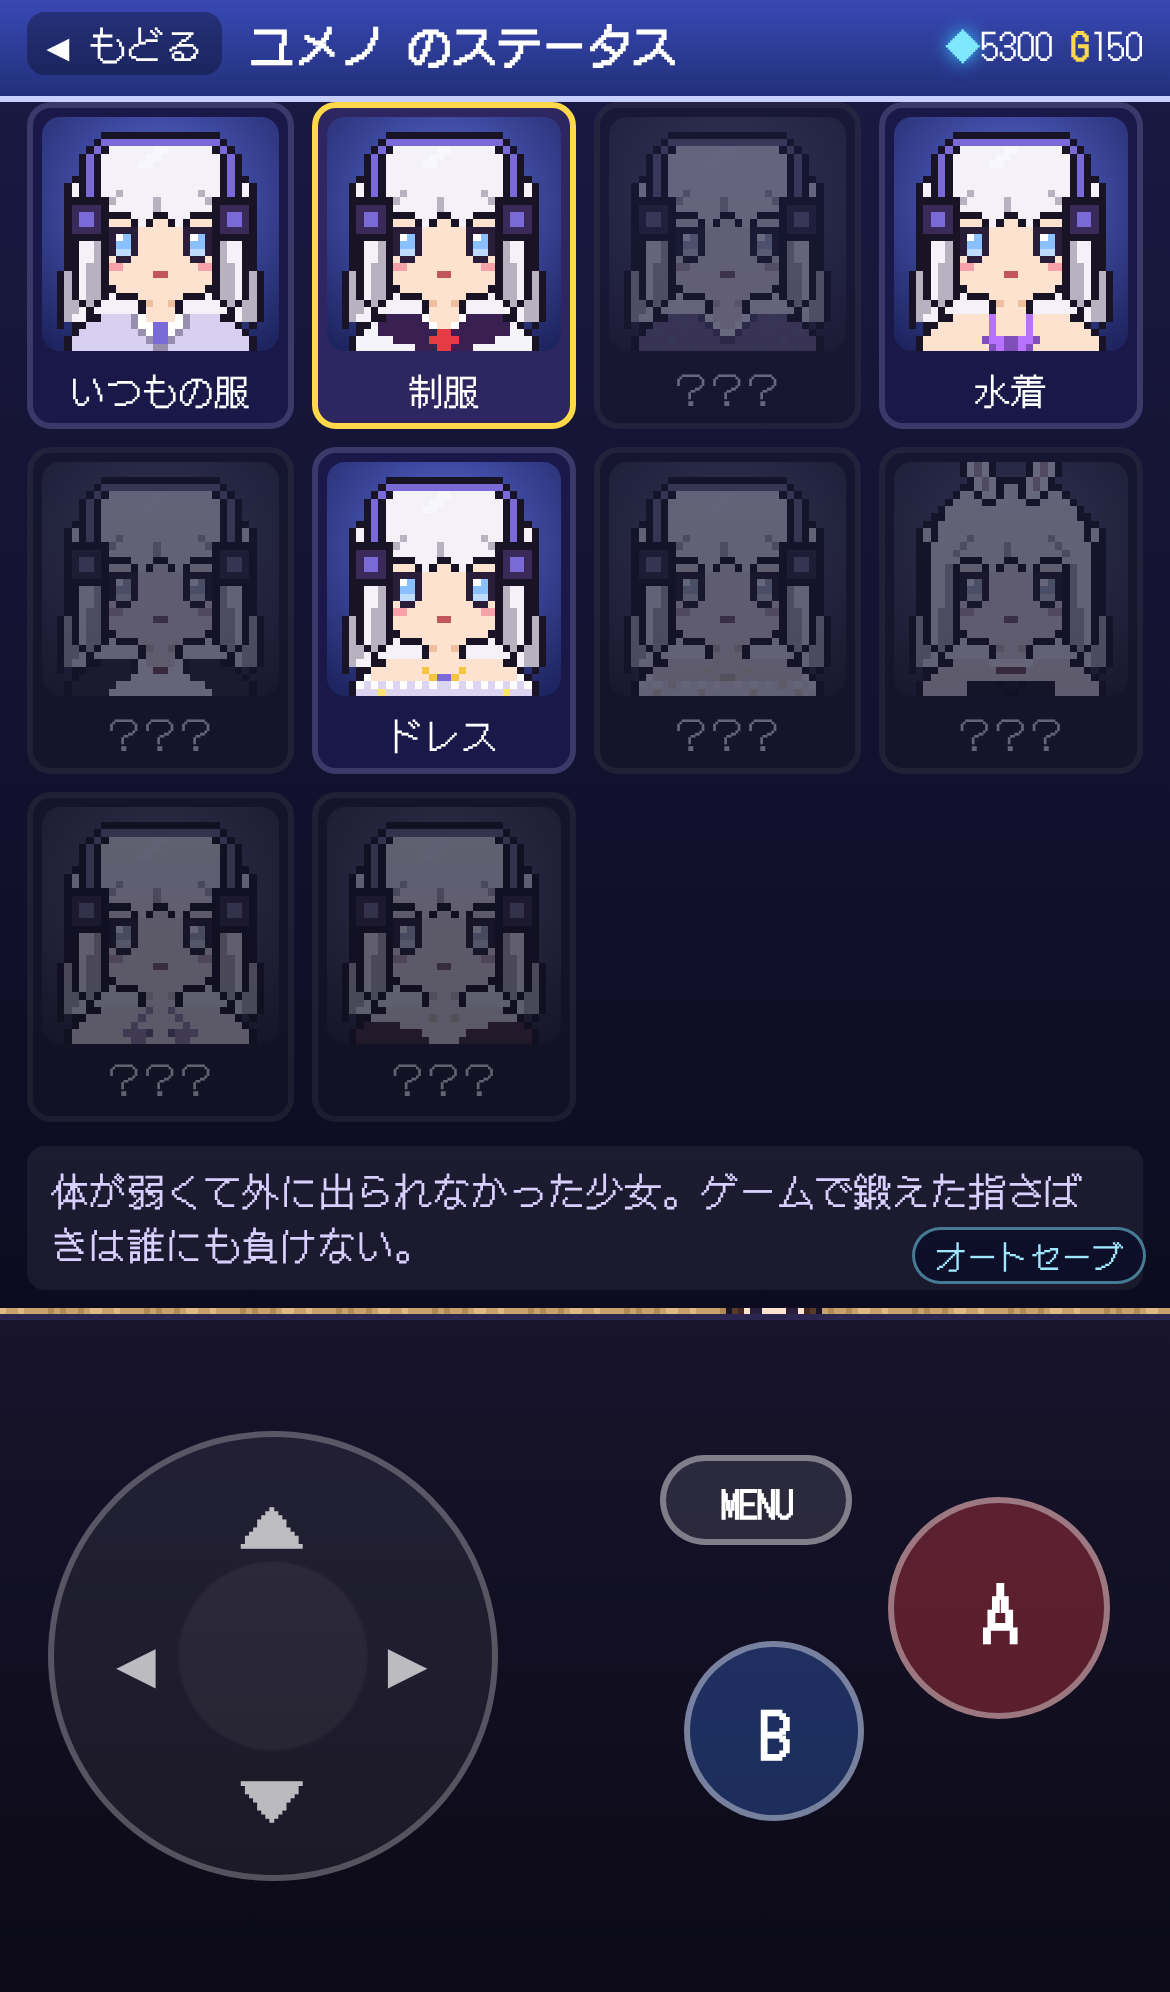
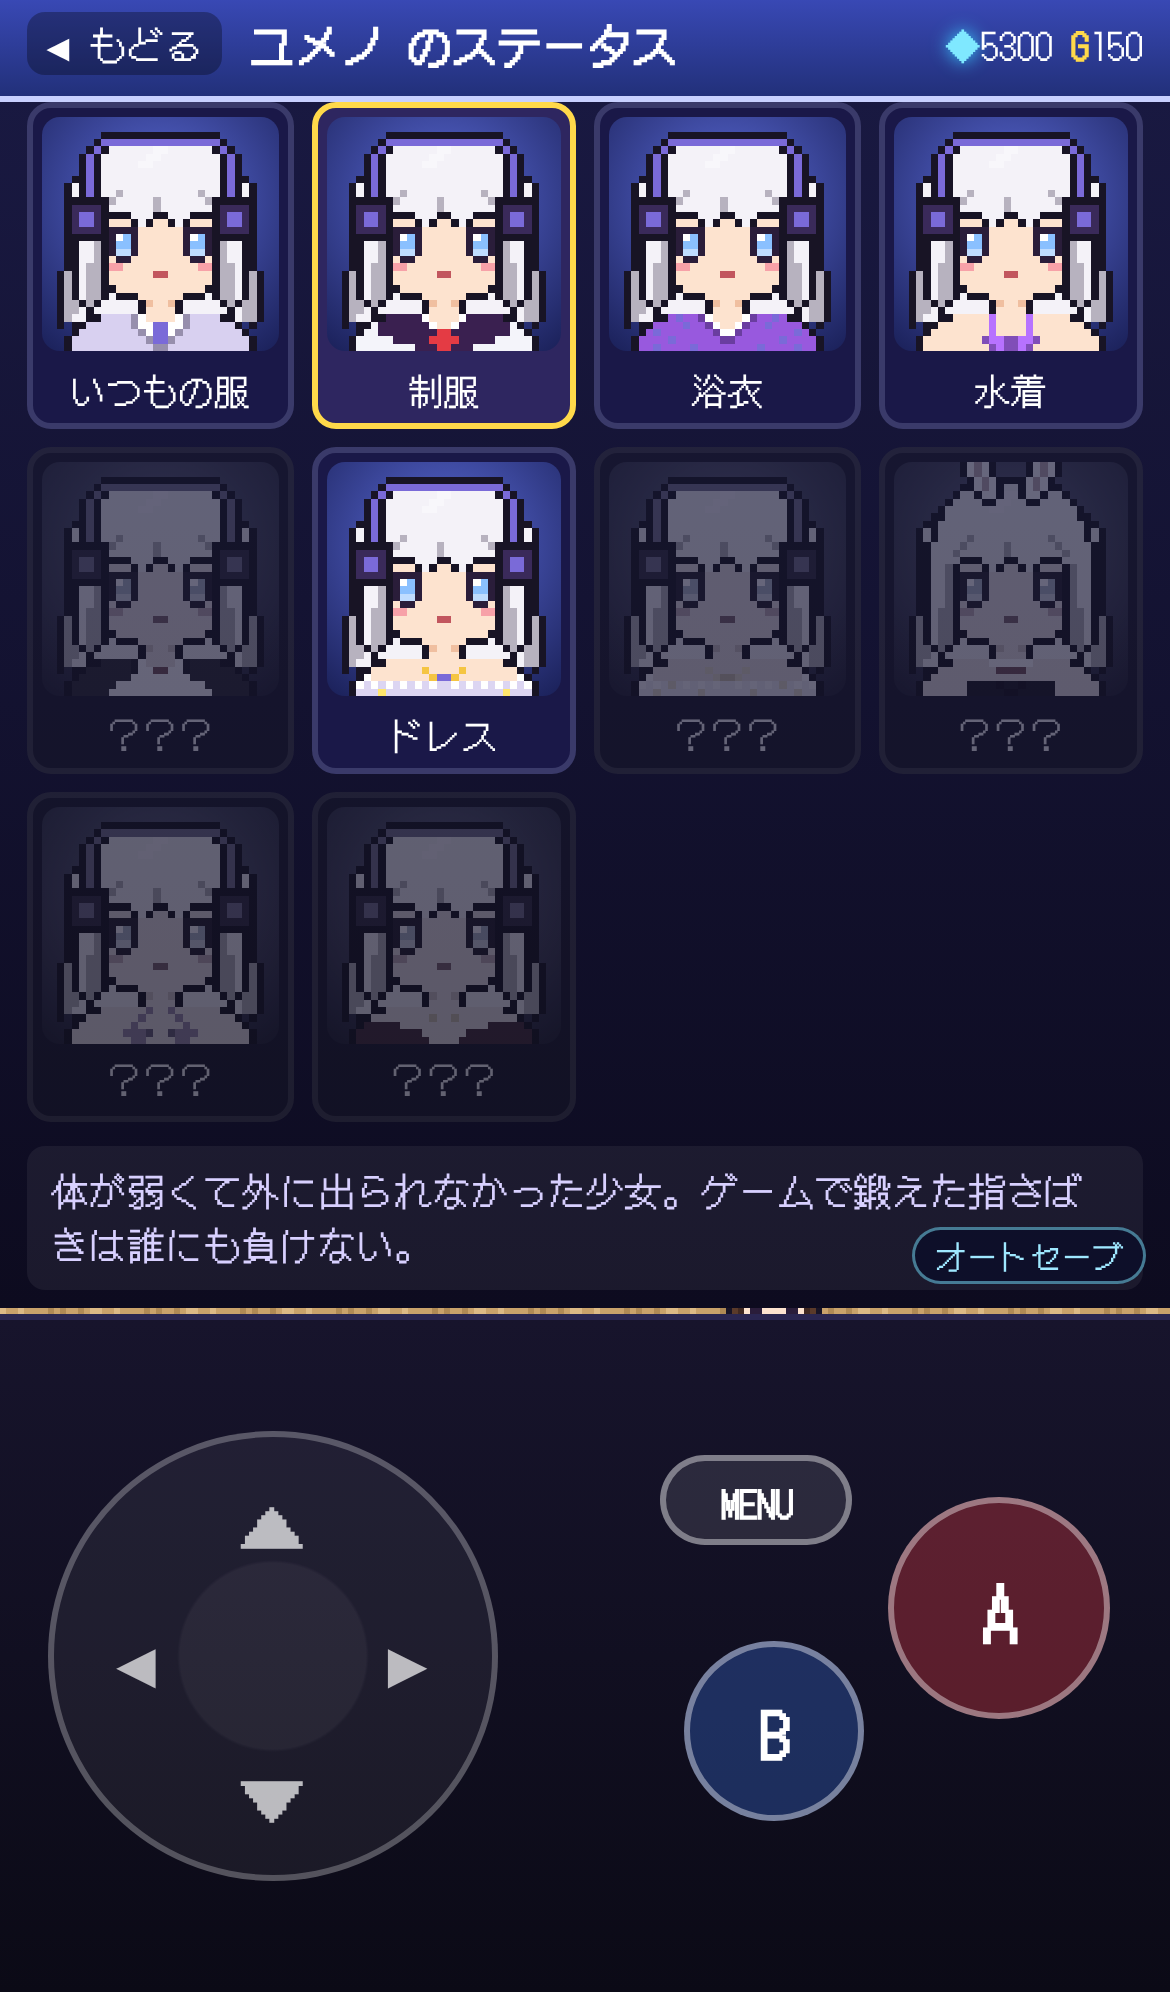
Redraw full-body swimsuits
- Swimsuits stay inside the torso so frills and stripes no longer cross the arms and hands
- Proper one-piece with scoop neck, leg line and waist trim (short frill skirt for young characters),
  frilled bikini with side ties, and sporty tank top with striped shorts
- Shoulder straps instead of lines to the neck; polka dots on some characters

Claude-Session: https://claude.ai/code/session_0196b6MDWrGeJ9iBWFqq5RS1

Changed region(s): [[0.4923, 0.0311, 0.7385, 0.2179]]

diff --git a/js/fullbody.js b/js/fullbody.js
@@ -405,20 +405,39 @@ const FB_OUTFITS = {
     fbFill(g, B.hand, SKIN);
   },
   swim(g, B, K) {
-    const C = K.L.cloth, v = K.adult ? K.hash % 3 : 1 + K.hash % 2;
+    // 体の内側だけに描く (腕や手にはみ出さない)
+    const C = K.L.cloth, T = K.A, inT = m => FBM.and(B.torso, m);
+    const v = K.adult ? K.hash % 3 : 1 + K.hash % 2;
+    const straps = (y1) => { fbLine(g, 28, 27, 28, y1, C); fbLine(g, 36, 27, 36, y1, C); };
+    const dots = (m) => { if (K.hash % 2) for (let y = 34; y < 58; y += 4) for (let x = 25 + (y % 8 ? 2 : 0); x < 40; x += 4) if (m(x, y)) fbDot(g, x, y, WHITE); };
     if (v === 0) { // フリルのビキニ
-      fbFill(g, FBM.or(FBM.ell(29.4, 34.6, 2.8, 2.1), FBM.ell(34.6, 34.6, 2.8, 2.1)), C);
-      FBP.frill(g, 36, 26, 38, WHITE);
-      fbLine(g, 29, 32, 30, 26, C); fbLine(g, 35, 32, 34, 26, C);
-      fbFill(g, FBM.and(B.torso, FBM.band(53, 58)), C); FBP.frill(g, 57, 24, 40, WHITE);
-    } else if (v === 1) { // ワンピース水着 (フリルスカートつき)
-      fbFill(g, FBM.or(FBM.and(B.torso, FBM.band(31, 58)), FBM.sym([[32, 52], [26, 52], [23, 62], [32, 62]])), C);
-      fbLine(g, 29, 31, 30, 26, C); fbLine(g, 35, 31, 34, 26, C);
-      FBP.frill(g, 61, 22, 42, WHITE); FBP.bow(g, 32, 33, WHITE);
+      const top = inT(FBM.or(FBM.ell(29.3, 34.6, 3, 2.2), FBM.ell(34.7, 34.6, 3, 2.2)));
+      const bottom = FBM.sym([[32, 53], [B.hip + 0.2, 53], [B.hip + 1, 55], [30, 58.5], [32, 59]]);
+      fbFill(g, FBM.or(top, bottom), C);
+      straps(32);
+      for (let x = 26; x <= 38; x++) if (B.torso(x, 37)) fbDot(g, x, 37 + (x % 2), WHITE);
+      fbDot(g, Math.ceil(B.hip), 53, T); fbDot(g, Math.floor(64 - B.hip), 53, T);
+      dots(FBM.or(top, bottom));
+    } else if (v === 1) { // ワンピース水着 (年少はミニスカートつき)
+      const body = FBM.and(inT(FBM.band(31, 57)), FBM.not(FBM.ell(32, 30.5, 3.2, 2.2)));
+      const crotch = FBM.sym([[32, 52], [B.hip + 0.6, 52], [B.hip + 1.4, 54.5], [30.2, 58.5], [32, 59]]);
+      fbFill(g, FBM.or(body, crotch), C);
+      straps(31);
+      if (!K.adult) {
+        fbFill(g, FBM.sym([[32, 52], [B.hip - 0.2, 52], [B.hip - 1.6, 60], [32, 60]]), C);
+        for (let x = Math.ceil(B.hip - 1.6); x < 64 - (B.hip - 1.6); x++) fbDot(g, x, 60 + (x % 2), WHITE);
+      }
+      fbFill(g, inT(FBM.band(43.5, 45.5)), T);
+      FBP.bow(g, 32, 33.5, T, 0.8);
+      dots(body);
     } else { // スポーティ (タンクトップとショートパンツ)
-      fbFill(g, FBM.and(B.torso, FBM.band(30, 44)), C);
-      fbFill(g, FBM.or(FBM.and(B.torso, FBM.band(52, 58)), FBM.and(B.leg, FBM.band(55, 61))), U.shade(C, -0.3));
-      fbLine(g, 22, 54, 42, 54, WHITE);
+      const top = inT(FBM.band(30.5, 44));
+      fbFill(g, top, C);
+      straps(31);
+      const shorts = FBM.or(inT(FBM.band(51, 58)), FBM.and(B.leg, FBM.band(55, 62)));
+      fbFill(g, shorts, T);
+      for (let y = 52; y < 62; y++) for (const x of [25, 38]) if (shorts(x, y)) fbDot(g, x + (y > 56 ? (x < 32 ? 1 : -1) : 0), y, WHITE);
+      for (let x = 26; x <= 38; x++) if (B.torso(x, 43)) fbDot(g, x, 43, WHITE);
     }
   },
   maid(g, B, K) {
